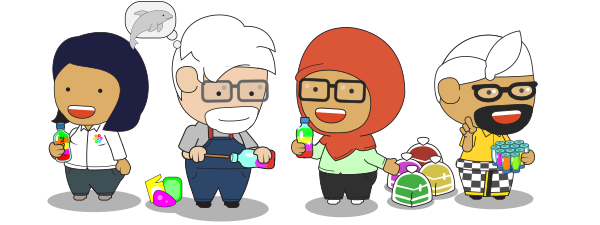
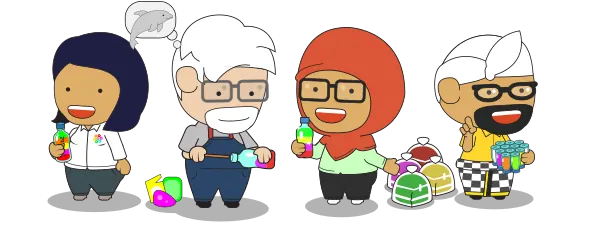
contained

diff --git a/march-stylesheet.css b/march-stylesheet.css
@@ -152,36 +152,6 @@ html {
   
   
   
-  @media screen and (min-width: 1200px) { 
-  
-  #landing-content { 
-  width: 70%;
-  margin: auto;
-  margin-bottom: 0px;
-      }
-    }
-    
-    
-    @media screen and (min-width: 700px) and (max-width: 1200px) { 
-  
-    #landing-content { 
-    width: 80%;
-    margin: auto;
-    margin-bottom: 0px;
-
-        }
-      }
-  
-  
-    @media screen and (max-width: 700px) { 
-  #landing-content { 
-    background: none;
-  max-width: 90%;
-  margin: auto;
-        }
-      }
-
-
 
 /*------------------------------------
 

diff --git a/en/index.php b/en/index.php
@@ -66,6 +66,36 @@ html {
   }
 
 
+  @media screen and (min-width: 1200px) { 
+  
+  #landing-content { 
+  width: 70%;
+  margin: auto;
+  margin-bottom: 0px;
+      }
+    }
+    
+    
+    @media screen and (min-width: 700px) and (max-width: 1200px) { 
+  
+    #landing-content { 
+    width: 80%;
+    margin: auto;
+    margin-bottom: 0px;
+
+        }
+      }
+  
+  
+    @media screen and (max-width: 700px) { 
+  #landing-content { 
+    background: none;
+  max-width: 90%;
+  margin: auto;
+        }
+      }
+
+
 
 /*------------------------------------
 
@@ -357,7 +387,7 @@ border:none;
     margin: auto;
       position: relative;
       z-index: 11;
-      background: url(../webp/ecobrick-team-day.webp?v=2) no-repeat;
+      background: url(../webp/ecobrick-team-day2.webp?v=2) no-repeat;
       background-size: contain;
       height: fit-content;
   }
